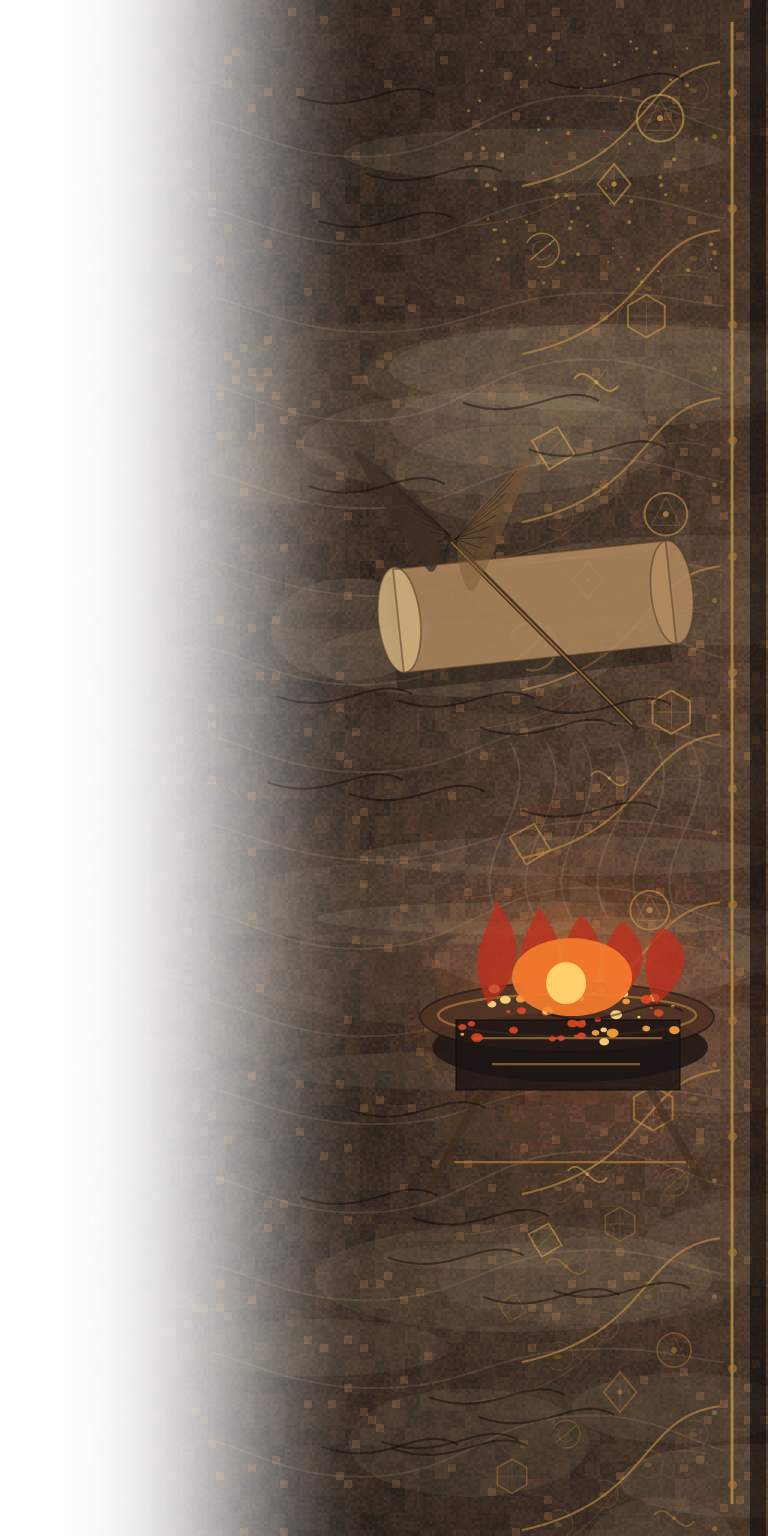
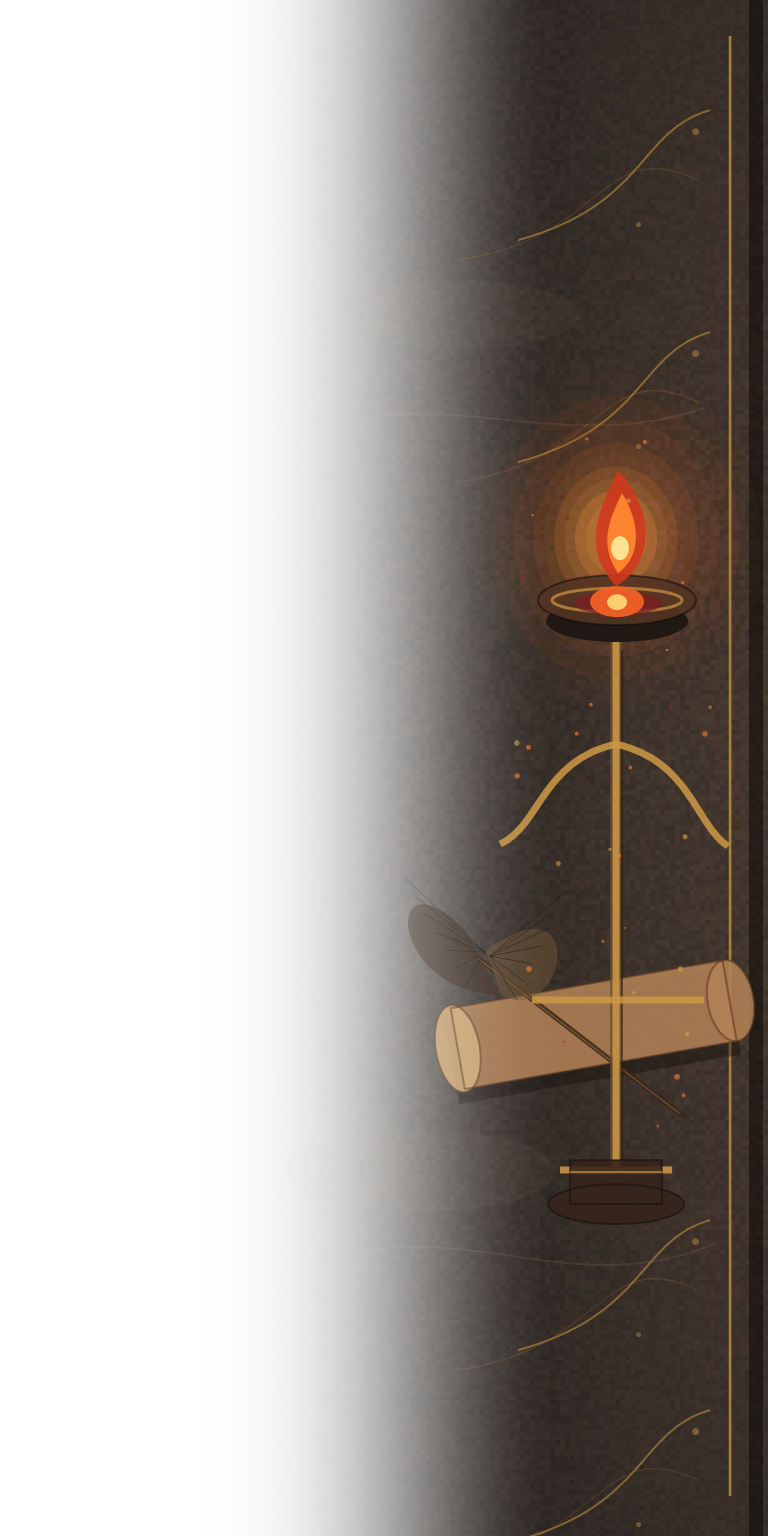
beauty: use the freshly-regenerated right mural (no mirror) (#1116)
Codex successfully regenerated launcher-side-right.png via imagegen — it now
depicts a clean, readable composition (right-anchored gold candelabra with an
ember flame + blank scroll/quill on the same axis, sparse filigree, left edge
fading to transparent alpha), not the previous muddy mess. The earlier "mirror
the left image" workaround is reverted: App.tsx points back at the right asset
and layout.css drops the scaleX(-1) flip.

Verified via Codex's own description of the saved PNG (clean subject, correct
right-anchored composition, alpha fades to 0 on the left). npm run verify
(11/11, build pass).

[skip ci]

diff --git a/BookOfEternityClient.WebFrontend/src/App.tsx b/BookOfEternityClient.WebFrontend/src/App.tsx
@@ -77,7 +77,7 @@ function AppShell() {
               <img src="/generated-art/launcher-side-left.png" alt="" loading="lazy" onError={(event) => { event.currentTarget.hidden = true; }} />
             </div>
             <div className="shell-side-mural shell-side-mural--right" aria-hidden="true">
-              <img src="/generated-art/launcher-side-left.png" alt="" loading="lazy" onError={(event) => { event.currentTarget.hidden = true; }} />
+              <img src="/generated-art/launcher-side-right.png" alt="" loading="lazy" onError={(event) => { event.currentTarget.hidden = true; }} />
             </div>
           </>
         )}

diff --git a/BookOfEternityClient.WebFrontend/src/styles/layout.css b/BookOfEternityClient.WebFrontend/src/styles/layout.css
@@ -29,7 +29,6 @@
 
 .shell-side-mural--right {
   right: 0;
-  transform: scaleX(-1);
 }
 
 @media (max-width: 1100px) {
